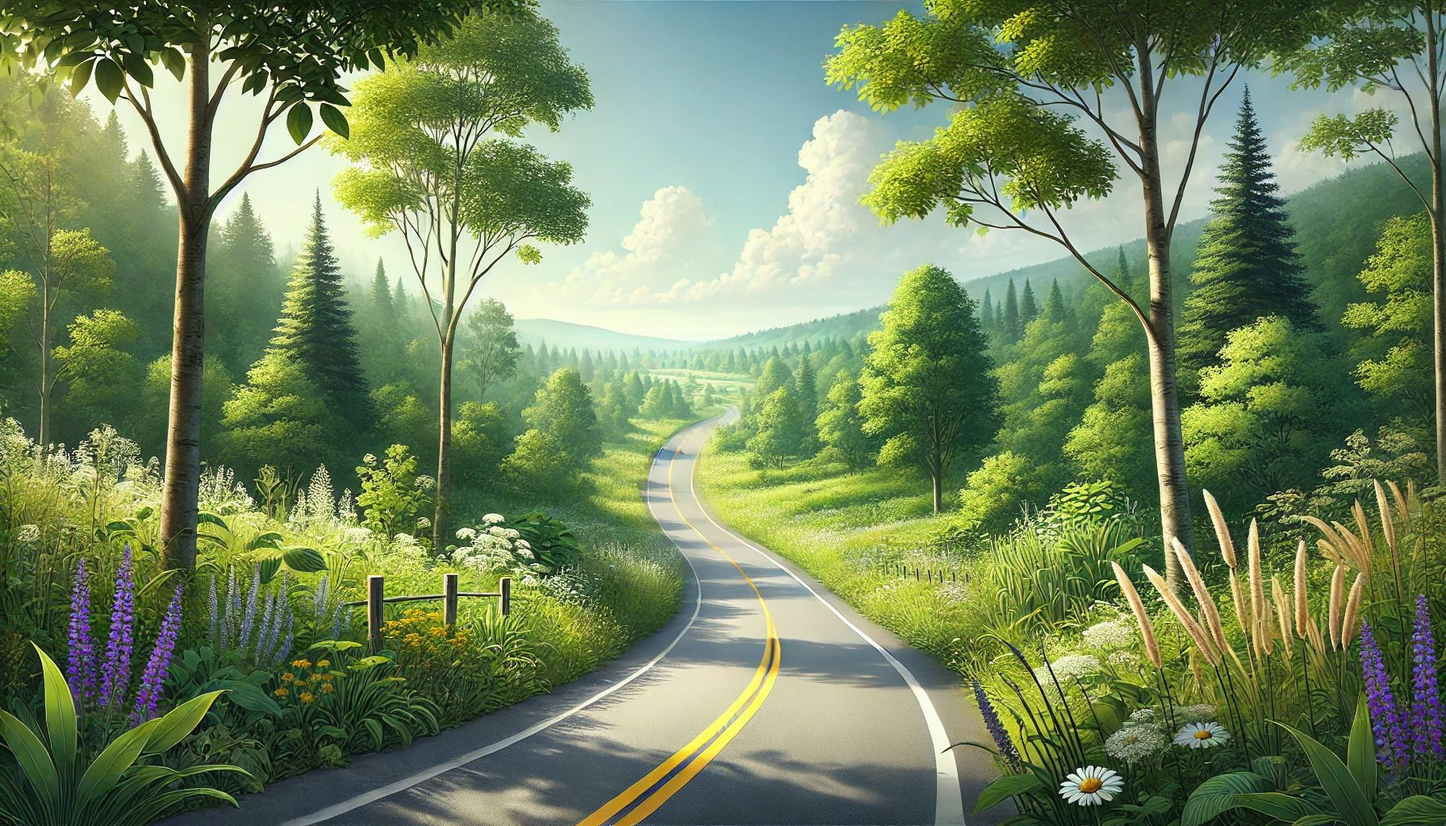
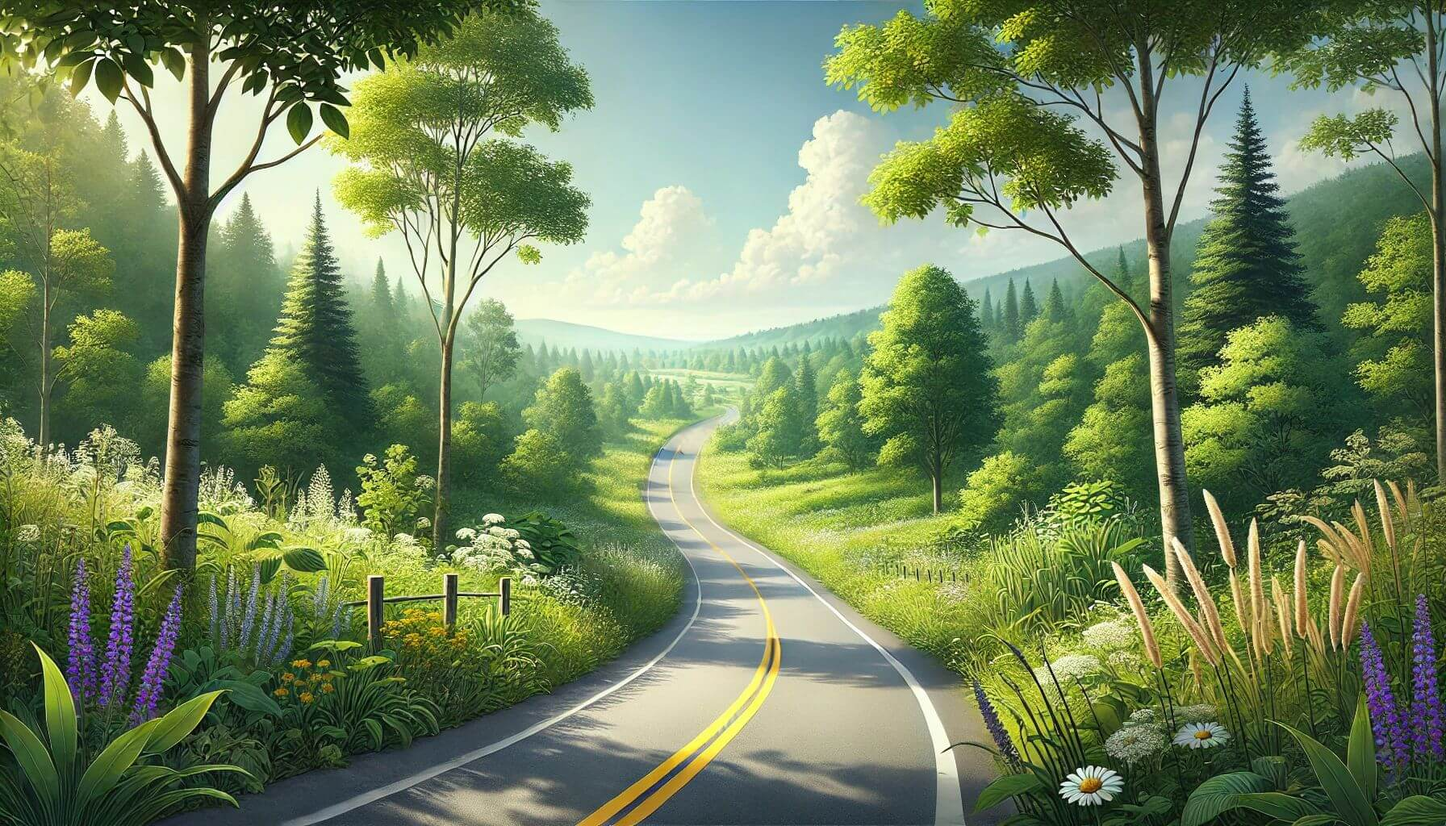
Görsel Optimizasyonları Gerçekleştirildi.

diff --git a/src/data/data.js b/src/data/data.js
@@ -19,8 +19,8 @@ import huawei from "../assets/social-media/huawei.svg";
 // carousel
 import road1 from "../assets/carousel/road.jpg";
 import road2 from "../assets/carousel/road2.jpg";
-import road3 from "../assets/carousel/road3.jpg";
-import doga from "../assets/carousel/doga.png";
+import road3 from "../assets/carousel/road3.webp";
+import doga from "../assets/carousel/doga.webp";
 
 export const socialMedia = [
   {
